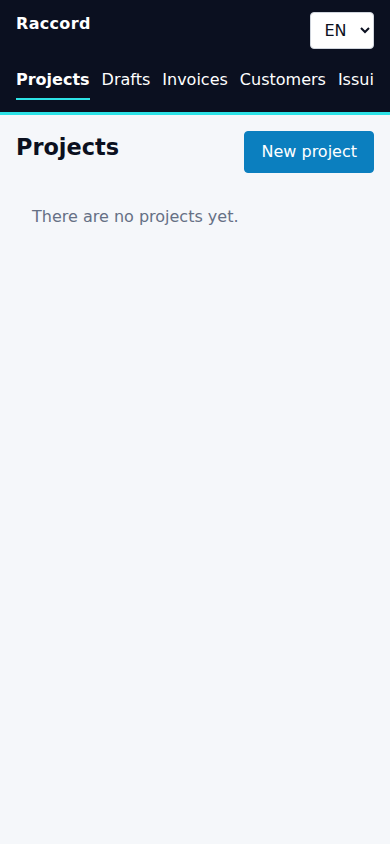
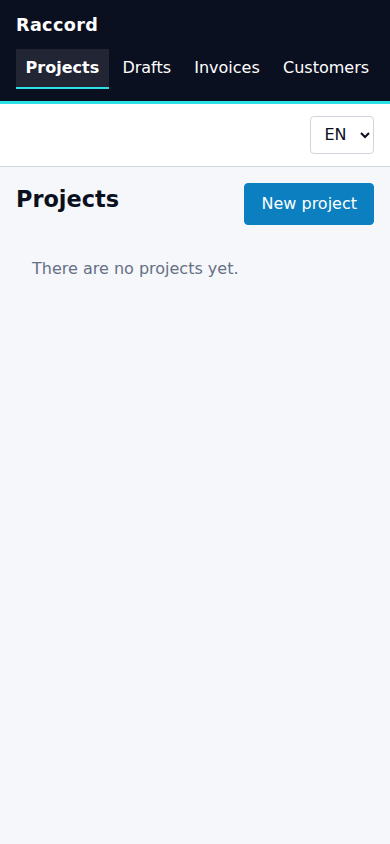
feat: align app shell navigation with design system

Changed region(s): [[0.0, 0.0, 1.0, 0.2773], [0.0923, 0.3081, 0.6154, 0.3389]]

diff --git a/src/Raccord.Frontend/src/styles.css b/src/Raccord.Frontend/src/styles.css
@@ -66,47 +66,65 @@ body {
     top: 1rem;
 }
 
-.shell__header {
-    display: flex;
-    flex-wrap: wrap;
-    align-items: center;
-    gap: 1rem 2rem;
-    padding: 0.75rem 1.5rem;
-    min-height: 4.5rem;
+.shell__layout {
+    min-height: 100vh;
+    display: grid;
+    grid-template-columns: 15rem minmax(0, 1fr);
+}
+.shell__sidebar {
+    padding: 1.5rem 1rem;
     background: var(--raccord-ink);
     color: var(--raccord-white);
-    border-bottom: 3px solid var(--raccord-cyan);
 }
 .brand {
+    display: block;
+    padding: 0 0.75rem 1.75rem;
     font-weight: 700;
     letter-spacing: 0.02em;
+    font-size: 1.25rem;
 }
-.shell__header nav ul {
-    display: flex;
-    flex-wrap: wrap;
-    gap: 0.25rem 1rem;
+.shell__sidebar nav ul {
+    display: grid;
+    gap: 0.35rem;
     margin: 0;
     padding: 0;
     list-style: none;
 }
-.shell__header nav a {
+.shell__sidebar nav a {
+    display: block;
     color: var(--raccord-white);
     text-decoration: none;
-    padding: 0.25rem 0;
-    border-bottom: 2px solid transparent;
+    padding: 0.65rem 0.75rem;
+    border-left: 3px solid transparent;
+    border-radius: 0 3px 3px 0;
 }
-.shell__header nav a.active {
-    border-bottom-color: var(--raccord-cyan);
+.shell__sidebar nav a.active {
+    border-left-color: var(--raccord-cyan);
+    background: rgb(255 255 255 / 9%);
     font-weight: 600;
 }
-.shell__header nav a:hover {
+.shell__sidebar nav a:hover {
     color: var(--raccord-cyan);
 }
-.shell__header select {
+.shell__content {
+    min-width: 0;
+}
+.shell__toolbar {
+    display: flex;
+    justify-content: flex-end;
+    min-height: 4.5rem;
+    padding: 0.75rem clamp(1rem, 3vw, 2.5rem);
+    border-bottom: 1px solid var(--border);
+    background: var(--surface);
+}
+.shell__toolbar select {
     color: var(--text);
 }
 .locale {
     margin-left: auto;
+}
+.shell__toolbar .locale {
+    margin-left: 0;
 }
 .shell__main {
     max-width: 80rem;
@@ -364,24 +382,37 @@ address {
 }
 
 @media (max-width: 48rem) {
-    .shell__header {
-        align-items: flex-start;
-        gap: 0.75rem 1rem;
-        padding: 0.75rem 1rem;
+    .shell__layout {
+        grid-template-columns: minmax(0, 1fr);
+        grid-template-rows: auto minmax(0, 1fr);
     }
-    .shell__header nav {
-        order: 3;
-        width: 100%;
+    .shell__sidebar {
+        padding: 0.75rem 1rem;
+        border-bottom: 3px solid var(--raccord-cyan);
+    }
+    .brand {
+        padding: 0 0 0.65rem;
+        font-size: 1.1rem;
+    }
+    .shell__sidebar nav {
         overflow-x: auto;
     }
-    .shell__header nav ul {
-        flex-wrap: nowrap;
+    .shell__sidebar nav ul {
+        display: flex;
         width: max-content;
-        gap: 0.75rem;
+        gap: 0.25rem;
     }
-    .shell__header nav a {
-        display: inline-block;
-        padding: 0.4rem 0;
+    .shell__sidebar nav a {
+        padding: 0.45rem 0.6rem;
+        border-left: 0;
+        border-bottom: 2px solid transparent;
+        border-radius: 0;
+    }
+    .shell__sidebar nav a.active {
+        border-bottom-color: var(--raccord-cyan);
+    }
+    .shell__toolbar {
+        min-height: 3.75rem;
     }
     .locale {
         margin-left: auto;

diff --git a/src/Raccord.Frontend/src/app/AppShell.tsx b/src/Raccord.Frontend/src/app/AppShell.tsx
@@ -36,36 +36,42 @@ export function AppShell() {
             <a className="skip-link" href="#main">
                 {t("app.skipToContent")}
             </a>
-            <header className="shell__header">
-                <span className="brand">{t("app.name")}</span>
-                <nav aria-label={t("nav.main")}>
-                    <ul>
-                        {navigation.map((item) => (
-                            <li key={item.to}>
-                                <NavLink to={item.to}>{t(item.key)}</NavLink>
-                            </li>
-                        ))}
-                    </ul>
-                </nav>
-                <label className="locale">
-                    <span className="visually-hidden">{t("app.language")}</span>
-                    <select
-                        value={locale}
-                        onChange={(event) => {
-                            setLocale(event.target.value as Locale);
-                        }}
-                    >
-                        {locales.map((option) => (
-                            <option key={option} value={option}>
-                                {option.toUpperCase()}
-                            </option>
-                        ))}
-                    </select>
-                </label>
-            </header>
-            <main id="main" ref={main} className="shell__main">
-                <Outlet />
-            </main>
+            <div className="shell__layout">
+                <aside className="shell__sidebar">
+                    <span className="brand">{t("app.name")}</span>
+                    <nav aria-label={t("nav.main")}>
+                        <ul>
+                            {navigation.map((item) => (
+                                <li key={item.to}>
+                                    <NavLink to={item.to}>{t(item.key)}</NavLink>
+                                </li>
+                            ))}
+                        </ul>
+                    </nav>
+                </aside>
+                <div className="shell__content">
+                    <header className="shell__toolbar">
+                        <label className="locale">
+                            <span className="visually-hidden">{t("app.language")}</span>
+                            <select
+                                value={locale}
+                                onChange={(event) => {
+                                    setLocale(event.target.value as Locale);
+                                }}
+                            >
+                                {locales.map((option) => (
+                                    <option key={option} value={option}>
+                                        {option.toUpperCase()}
+                                    </option>
+                                ))}
+                            </select>
+                        </label>
+                    </header>
+                    <main id="main" ref={main} className="shell__main">
+                        <Outlet />
+                    </main>
+                </div>
+            </div>
         </div>
     );
 }

diff --git a/src/Raccord.Frontend/src/app/AppShell.test.tsx b/src/Raccord.Frontend/src/app/AppShell.test.tsx
@@ -1,0 +1,34 @@
+import { render, screen } from "@testing-library/react";
+import userEvent from "@testing-library/user-event";
+import { createMemoryRouter, RouterProvider } from "react-router";
+import { describe, expect, it } from "vitest";
+import { I18nProvider } from "../shared/i18n/I18nProvider";
+import { AppShell } from "./AppShell";
+
+describe("AppShell", () => {
+    it("exposes the current section, skip link, and named locale selector", async () => {
+        const router = createMemoryRouter(
+            [
+                {
+                    element: <AppShell />,
+                    children: [{ path: "/projects", element: <h1 data-page-heading>Projects</h1> }],
+                },
+            ],
+            { initialEntries: ["/projects"] },
+        );
+
+        render(
+            <I18nProvider locale="en">
+                <RouterProvider router={router} />
+            </I18nProvider>,
+        );
+
+        expect(screen.getByRole("link", { name: "Skip to content" })).toHaveAttribute("href", "#main");
+        expect(screen.getByRole("link", { name: "Projects" })).toHaveAttribute("aria-current", "page");
+        expect(screen.getByRole("navigation", { name: "Main navigation" })).toBeInTheDocument();
+        expect(screen.getByRole("combobox", { name: "Language" })).toHaveValue("en");
+
+        await userEvent.tab();
+        expect(screen.getByRole("link", { name: "Skip to content" })).toHaveFocus();
+    });
+});

diff --git a/docs/product/design/implemented-screen-mapping.md b/docs/product/design/implemented-screen-mapping.md
@@ -2,17 +2,17 @@
 
 This maps current frontend routes to the closest documented screen and trace. The portfolio is a design reference, not evidence that every depicted workflow exists. Keep rendered controls within current frontend/API behavior.
 
-| Implemented route | Closest reference | Current implementation boundary / gap |
-| --- | --- | --- |
-| `/projects` | `project-detail` shared project/table patterns | Use existing project list data and actions only; no schedule, tabs, or template flows. |
-| `/projects/new` | `project-creation` | Current API-backed name/customer/date fields only; omit template selection and preview. |
-| `/projects/:id` | `project-detail` | Existing project and billable-work behavior only; no unsupported schedule or document tabs. |
-| `/customers` | `contact-detail` shared identity/metadata patterns | No exact customer-list screen in the portfolio; retain the existing list and record this as a portfolio gap. |
-| `/customers/new` | `contact-detail` form patterns | Current customer fields only; no extra commercial profile or contact workflows. |
-| `/drafts` | `invoicing-queue` | Drafts supported by existing endpoints; omit unsupported filters and queue actions. |
-| `/drafts/:id` | `invoice-draft-editor` | Existing editable draft fields and lines only; no payment or issue workflow beyond supported actions. |
-| `/invoices` | `invoice-list` | Existing invoice list/status only; do not imply unsupported KPI, bulk-selection, or filtering behavior. |
-| `/invoices/:id` | `invoice-list` detail/table/status patterns | Existing invoice detail and audit data; no new actions. |
-| `/settings/issuer` | `issuer-profile` | Current issuer fields only; omit unsupported company profile and branding controls. |
+| Implemented route | Closest reference | Behavior trace | Current implementation boundary / gap |
+| --- | --- | --- | --- |
+| `/projects` | [`project-detail`](project-detail.html) shared project/table patterns | [`Project detail & schedule`](screen-traces.md#screen--project-detail--schedule-management-desktop); journey `JRN-PRJ-RUN-RENTAL-PROJECT` | No exact project-list screen; use existing project list data/actions only, no schedule, tabs, or template flows. |
+| `/projects/new` | [`project-creation`](project-creation.html) | [`Project creation`](screen-traces.md#screen--project-creation-management-desktop); journey `JRN-PRJ-RUN-RENTAL-PROJECT` | Current API-backed name/customer/date fields only; omit template selection and preview. |
+| `/projects/:id` | [`project-detail`](project-detail.html) | [`Project detail & schedule`](screen-traces.md#screen--project-detail--schedule-management-desktop); journey `JRN-PRJ-RUN-RENTAL-PROJECT` | Existing project and billable-work behavior only; no unsupported schedule or document tabs. |
+| `/customers` | [`contact-detail`](contact-detail.html) shared identity/metadata patterns | [`Contact detail & commercial defaults`](screen-traces.md#screen--contact-detail--commercial-defaults-management-desktop); journey `JRN-PRJ-SET-UP-CONTACT-DATABASE` | No exact customer-list screen; retain the existing list and record this as a portfolio gap. |
+| `/customers/new` | [`contact-detail`](contact-detail.html) form patterns | [`Contact detail & commercial defaults`](screen-traces.md#screen--contact-detail--commercial-defaults-management-desktop); journey `JRN-PRJ-SET-UP-CONTACT-DATABASE` | Current customer fields only; no extra commercial profile or contact workflows. |
+| `/drafts` | [`invoicing-queue`](invoicing-queue.html) | [`Invoicing queue`](screen-traces.md#screens-5-7--invoicing-queue--payments--dunning--quote-review-management-desktop); journey `JRN-BILL-FINISHED-PROJECT` | Drafts supported by existing endpoints; omit unsupported filters and queue actions. |
+| `/drafts/:id` | [`invoice-draft-editor`](invoice-draft-editor.html) | [`Invoice draft editor`](screen-traces.md#screen-4--invoice-draft-editor-management-desktop); journey `JRN-BILL-FINISHED-PROJECT` | Existing editable draft fields and lines only; no payment or issue workflow beyond supported actions. |
+| `/invoices` | [`invoice-list`](invoice-list.html) | [`Invoice list`](screen-traces.md#screen-1--invoice-list-management-desktop); journey `JRN-BILL-FINISHED-PROJECT` | Existing invoice list/status only; do not imply unsupported KPI, bulk-selection, or filtering behavior. |
+| `/invoices/:id` | [`invoice-list`](invoice-list.html) detail/table/status patterns | [`Invoice list`](screen-traces.md#screen-1--invoice-list-management-desktop); journey `JRN-BILL-FINISHED-PROJECT` | No exact invoice-detail reference; existing invoice detail and audit data only, no new actions. |
+| `/settings/issuer` | [`issuer-profile`](issuer-profile.html) | [`Issuer profile settings`](screen-traces.md#screen--issuer-profile-settings-management-desktop); journey `JRN-SET-UP-INVOICING` | Current issuer fields only; omit unsupported company profile and branding controls. |
 
 Shared shell: follow `docs/design/visual-direction.md`, `color-tokens.md`, and `logo-usage.md`. For behavior provenance consult `docs/product/design/screen-traces.md`; for the larger route portfolio consult `screen-backlog.md` and `raccord-screens.pen`.

diff --git a/openspec/changes/align-implemented-ui-with-product-designs/tasks.md b/openspec/changes/align-implemented-ui-with-product-designs/tasks.md
@@ -1,13 +1,13 @@
 ## 1. Reference mapping and shared system
 
 - [x] 1.1 Record each in-scope route’s closest design and behavior trace, unsupported concepts, and explicit gaps in `docs/product/design/implemented-screen-mapping.md`; verify every route in the router is covered.
-- [ ] 1.2 Align shared shell, responsive layout, and global tokens with `docs/design/`; verify frontend tests, keyboard navigation, and desktop/narrow screenshots.
+- [x] 1.2 Align shared shell, responsive layout, and global tokens with `docs/design/`; verify frontend tests, keyboard navigation, and desktop/narrow screenshots.
 
 ## 2. Screen alignment
 
 - [x] 2.1 Align project and customer routes to their closest references without adding unsupported workflow; verify existing route tests and both locales.
 - [x] 2.2 Align drafts, invoices, and issuer settings to their references without changing API behavior; verify existing route tests and both locales.
-- [ ] 2.3 Add/update visual and accessibility regression coverage for shared patterns and narrow layout; verify frontend test and lint/build commands.
+- [x] 2.3 Add/update accessibility regression coverage for shared navigation and capture shared-layout desktop/narrow states; verify frontend test and lint/build commands.
 
 ## 3. Delivery verification
 

diff --git a/docs/product/design/evidence/issue-70/README.md b/docs/product/design/evidence/issue-70/README.md
@@ -4,5 +4,7 @@ Captured from the Vite-served React app at `/projects` using Chromium. The Vite 
 
 - `projects-desktop.png` — 1440 × 1000
 - `projects-narrow.png` — 390 × 844
+- `project-creation-desktop.png` — 1440 × 1000
+- `project-creation-narrow.png` — 390 × 844
 
-The remaining route-specific screenshots and data-backed workflows were not captured in this environment. The issue’s full visual acceptance criterion still requires Owner review against the mapped references.
+The new-project screenshot shows the existing “register a customer first” empty state because the stub returns no customers; it does not show the project form. Other route-specific screenshots and data-backed workflows were not captured in this environment. The issue’s full visual acceptance criterion still requires Owner review against the mapped references.
